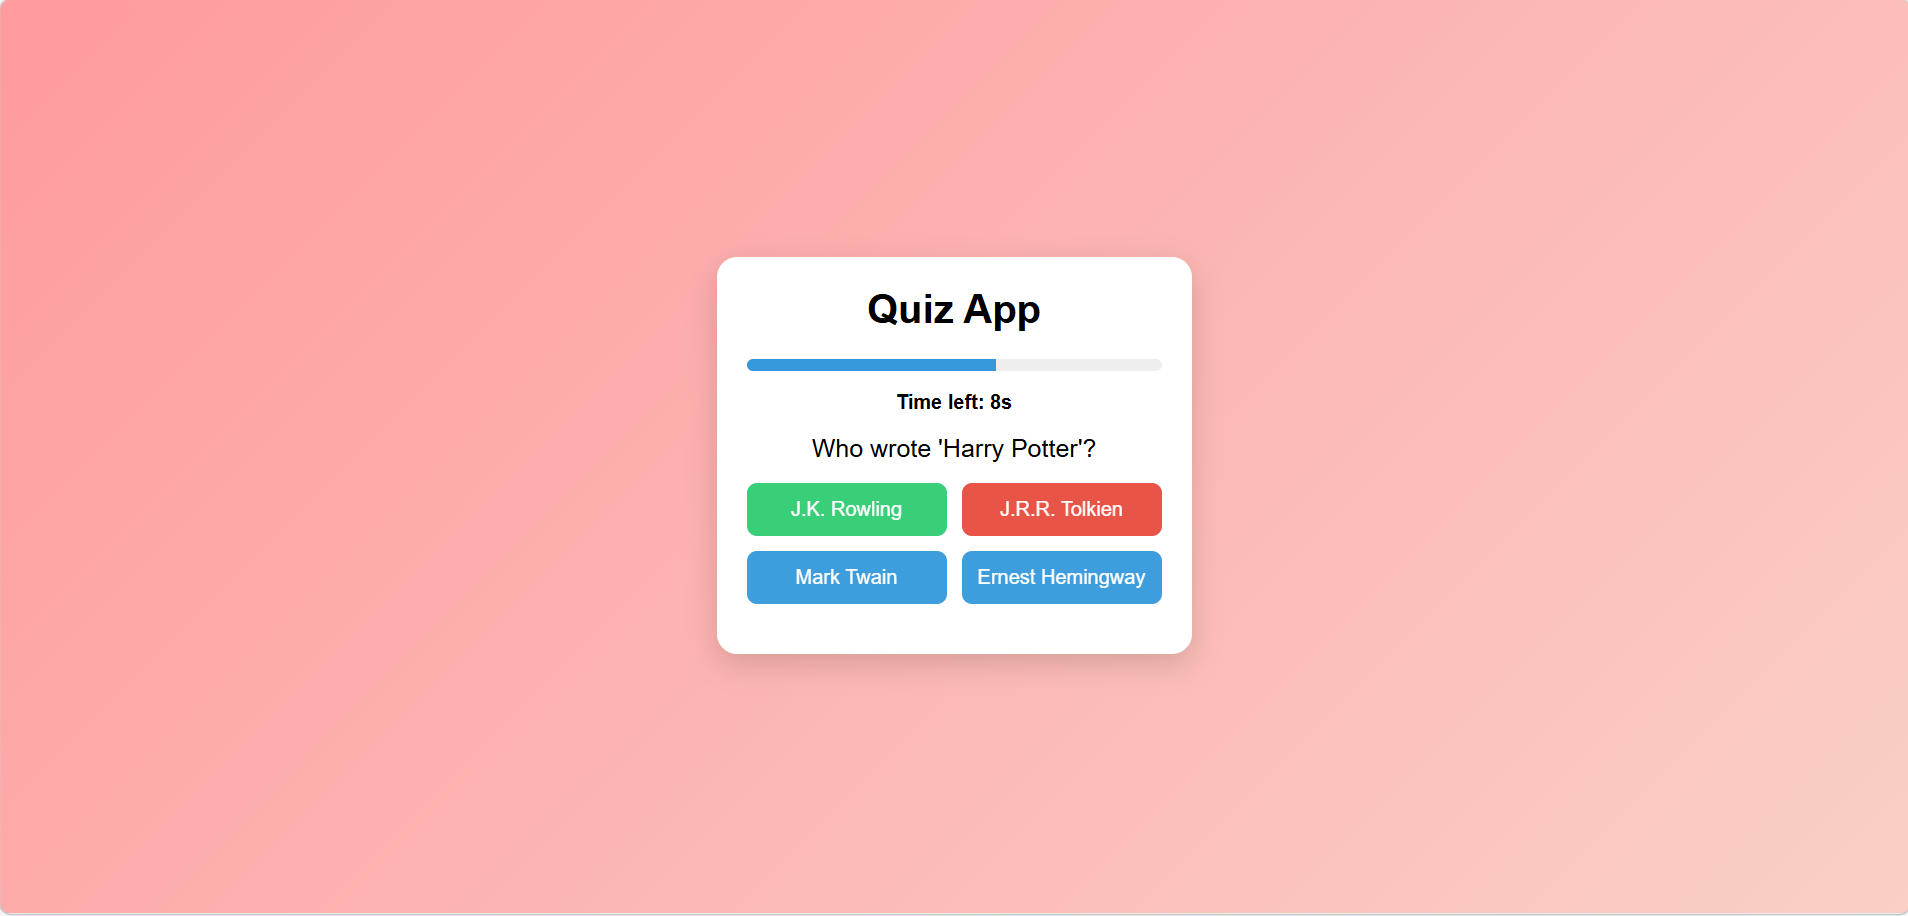
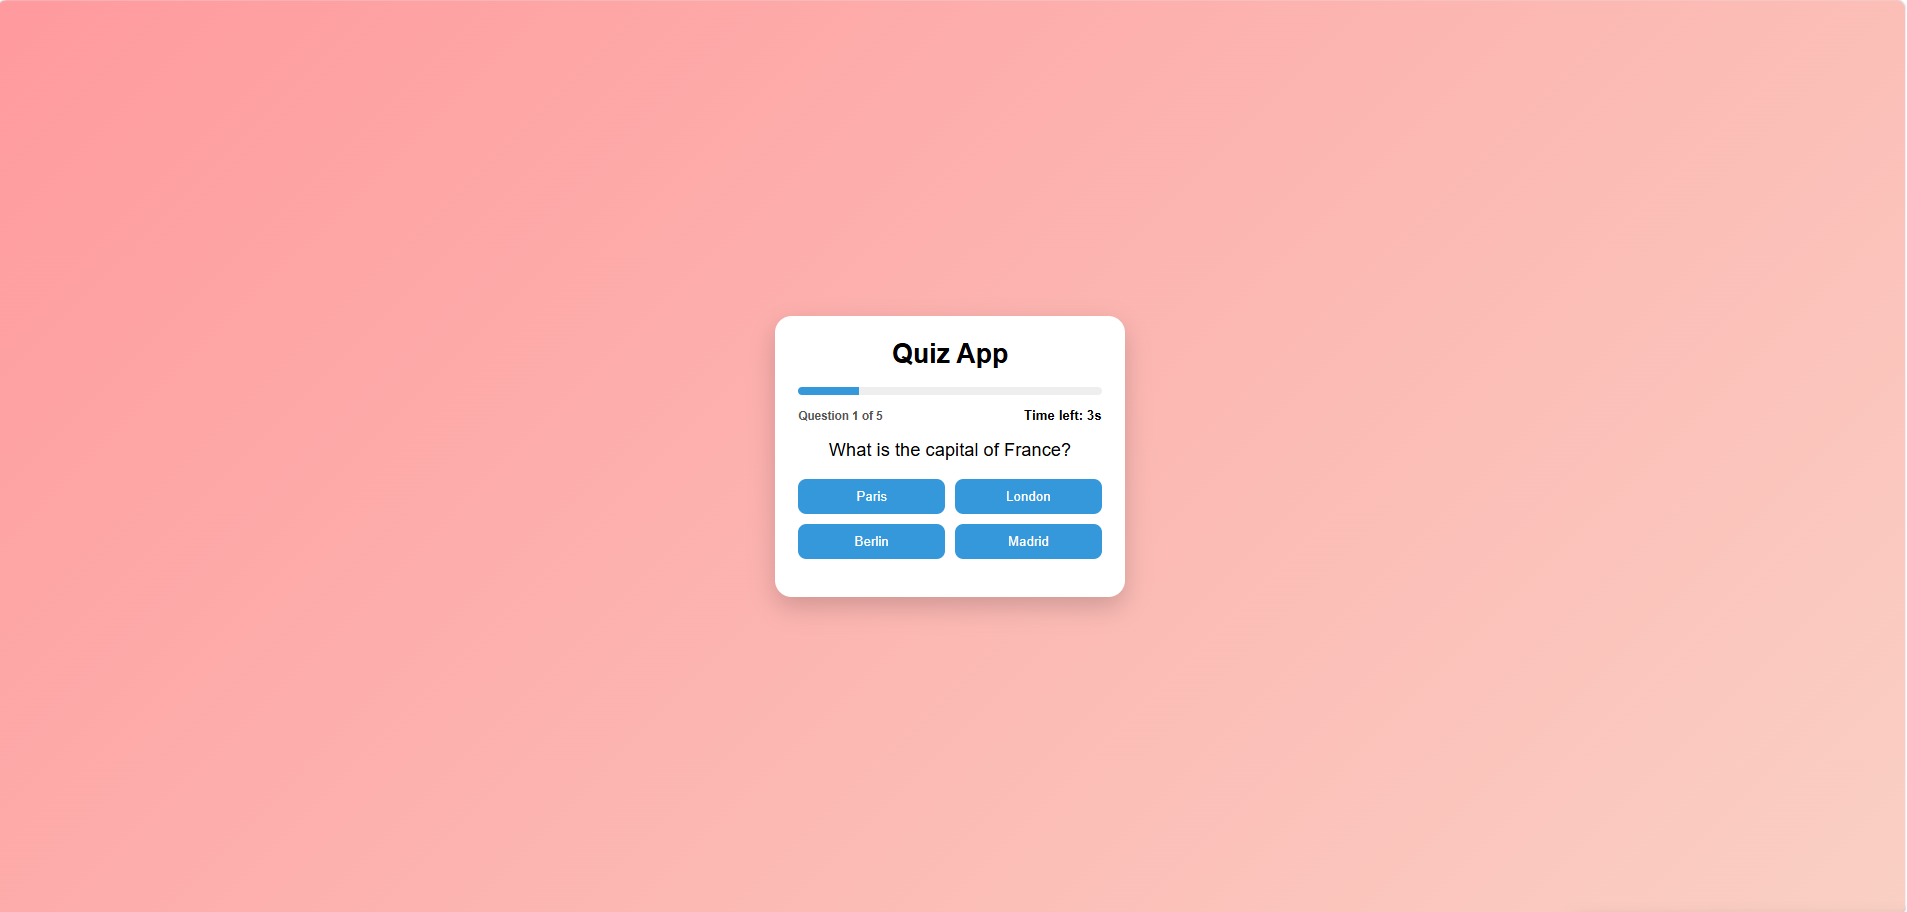
docs: update README and screenshot for V2 with new features and structure

Changed region(s): [[0.3713, 0.2763, 0.6497, 0.7368], [0.0, 0.0, 1.0, 1.0]]

diff --git a/README.md b/README.md
@@ -4,13 +4,17 @@ Interactive Quiz App built with HTML, CSS and JavaScript.
 
 ## Features
 
+- Start screen with quiz settings (category & difficulty)
 - Multiple choice questions
-- Highlights correct and incorrect answers
-- Score calculation
-- Restart quiz functionality
-- 10-second timer for each question
+- Dynamic question filtering
+- Timer for each question (10 seconds)
 - Progress bar quiz completion
-- Animated feddback for selected answers
+- Question counter (e.g. 1 of 5)
+- Highlights correct and incorrect answers
+- Next question navigation
+- Final score screen
+- Responsive design
+- Animated feedback (correct / wrong answers)
 
 ## Technologies
 
@@ -20,7 +24,17 @@ Interactive Quiz App built with HTML, CSS and JavaScript.
 
 ## Project Goal
 
-This project helps practice DOM manipulation, event handling, state management, timers, and dynamic UI updates with vanilla JavaScript.
+This project was built to practice:
+- DOM manipulation
+- Event handling
+- State management
+- Timers (setInterval)
+- Dynamic UI updates
+- Working with user input (filters)
+
+## Future Improvements
+- Fetch questions from API
+- Shuffle questions and answers
 
 ## Live Demo
 
@@ -29,3 +43,13 @@ This project helps practice DOM manipulation, event handling, state management, 
 ## Screenshot
 
 ![Quiz App Screenshot](images/screenshot.png)
+
+## Version
+
+### V2
+
+- Added start screen with quiz options
+- Added category and difficulty filters
+- Added quetion counter
+- Added next question button
+- Improved UI/UX and layout